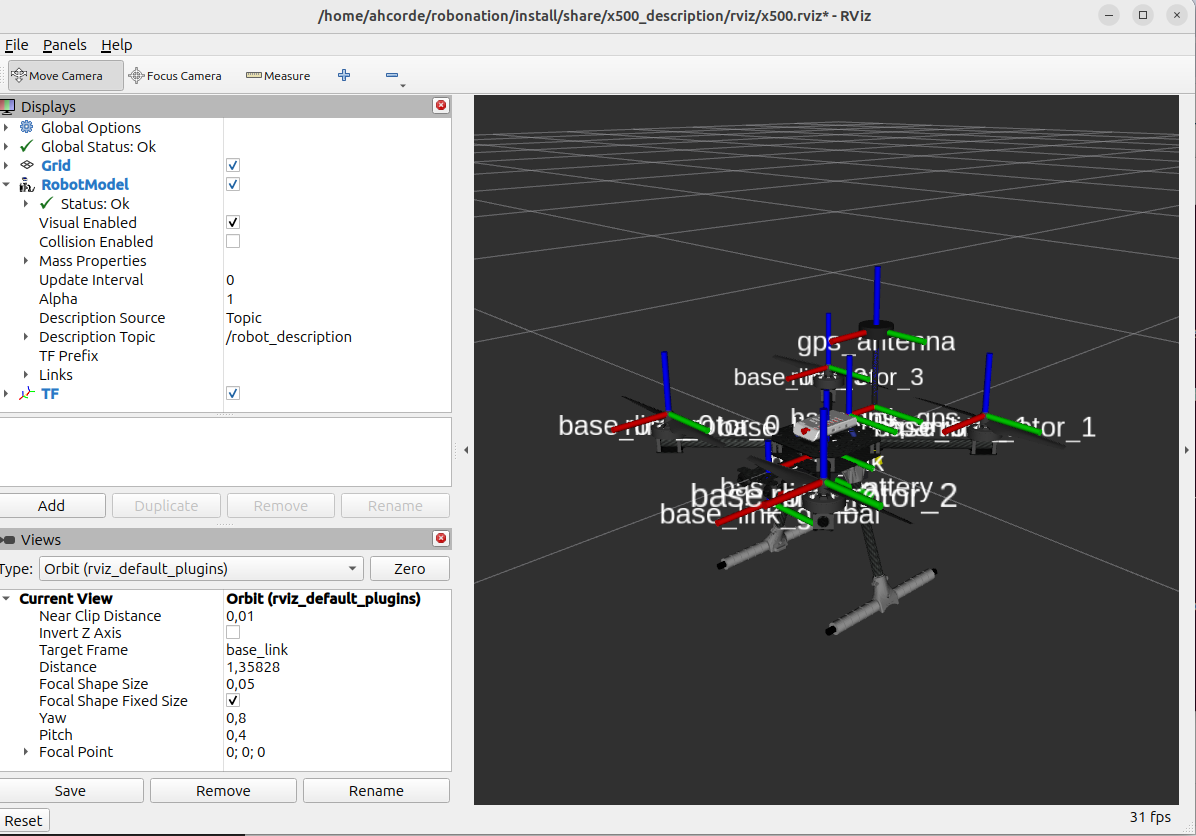
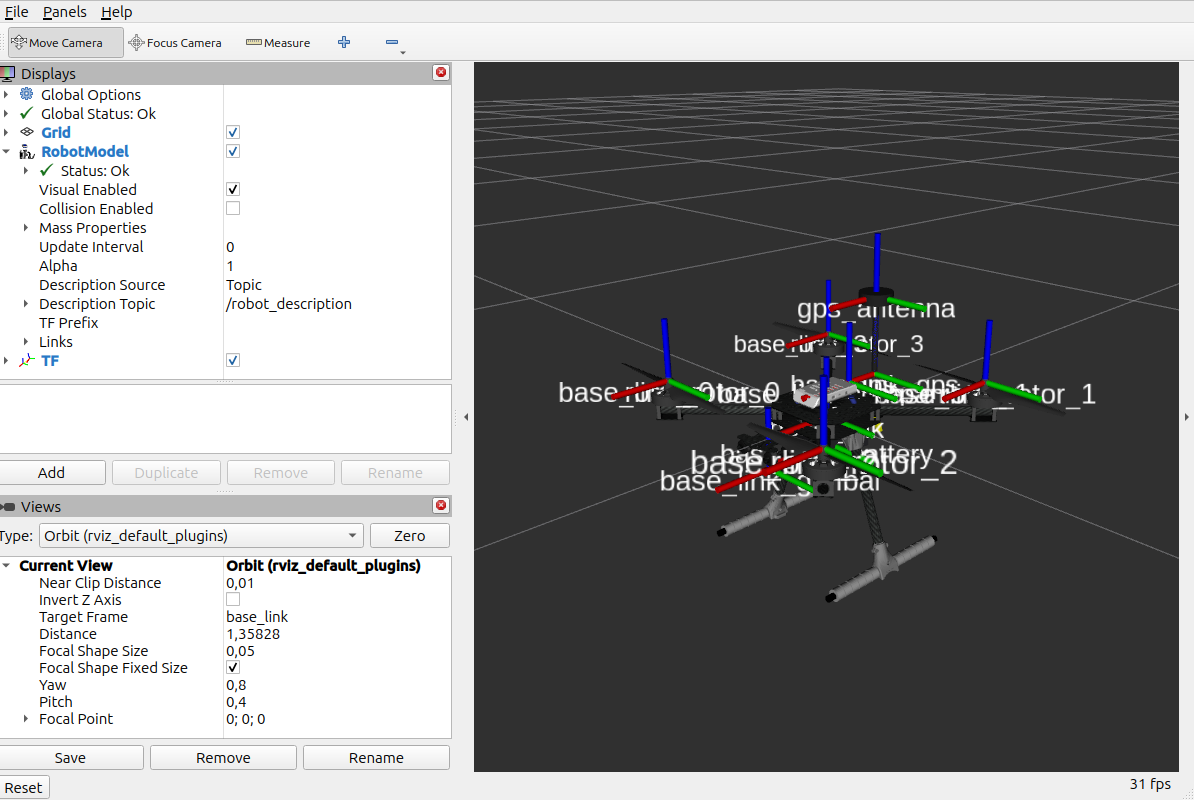
Review feedback

diff --git a/docs/how-to/index.md b/docs/how-to/index.md
@@ -6,14 +6,15 @@ The vehicle is described by one YAML config, so changing what is fitted
 never means rebuilding. Start from the default config:
 
 ```bash
-cp "$(ros2 pkg prefix --share x500_description)"/config/x500.yaml $HOME/ws/my_loadout.yaml
+mkdir -p $HOME/my_x500
+cp "$(ros2 pkg prefix --share x500_description)"/config/x500.yaml $HOME/my_x500/my_loadout.yaml
 ```
 
 Edit your copy, then hand it to either launch with `config_file:=`:
 
 ```bash
-ros2 launch x500_gazebo sim.launch.xml config_file:=$HOME/ws/my_loadout.yaml
-ros2 launch x500_description display.launch.xml config_file:=$HOME/ws/my_loadout.yaml
+ros2 launch x500_gazebo sim.launch.xml config_file:=$HOME/my_x500/my_loadout.yaml
+ros2 launch x500_description display.launch.xml config_file:=$HOME/my_x500/my_loadout.yaml
 ```
 
 Inside the config there are three ways to place a part:
@@ -40,7 +41,7 @@ Inside the config there are three ways to place a part:
 
 ```{tip}
 To fill a slot on a part other than the base, the instance key is `of:`,
-never `on:` - YAML reads a bare `on` as the boolean `true`.
+never `on:`. YAML reads a bare `on` as the boolean `true`.
 ```
 
 ## Generate the artifacts yourself
@@ -49,7 +50,7 @@ The launches generate everything they need, but you can write the same
 artifacts to a directory of your own:
 
 ```bash
-ros2 run x500_gazebo configure_vehicle.py --config $HOME/ws/my_loadout.yaml --out-dir ~/my_x500
+ros2 run x500_gazebo configure_vehicle.py --config $HOME/my_x500/my_loadout.yaml --out-dir $HOME/my_x500
 ```
 
 That writes `x500.urdf`, `model.sdf`, `model.config`,
@@ -60,7 +61,7 @@ root on `GZ_SIM_RESOURCE_PATH`.
 To confirm a config and an assembled URDF still agree:
 
 ```bash
-ros2 run holybro_parts check_assembly.py $HOME/ws/my_loadout.yaml ~/my_x500/x500.urdf
+ros2 run holybro_parts check_assembly.py $HOME/my_x500/my_loadout.yaml $HOME/my_x500/x500.urdf
 ```
 
 ## Add a part

diff --git a/docs/getting-started/first-simulation.md b/docs/getting-started/first-simulation.md
@@ -7,17 +7,18 @@ robot_state_publisher and the Gazebo GUI):
 ros2 launch x500_gazebo sim.launch.xml
 ```
 
-![](../img/x500.png)
+![The X500 quadrotor in Gazebo, resting on its landing gear](../img/x500.png)
 
-Gazebo opens with the X500 resting on its landing gear: 
+Gazebo opens with the X500 resting on its landing gear:
 
- - the airframe, 
- - its four 1345 propellers
- - the 4S battery
-- the GPS mast. 
+- the airframe
+- its four 1345 propellers
+- the 4S battery
+- the GPS mast
 
-That is the default configuration; no configuration was involved. The model carries no control
-layer, so the rotors idle until an autopilot publishes on the motor bus
+That is the default configuration; no configuration was involved. The
+model carries no control layer, so the rotors idle until an autopilot
+publishes on the motor bus
 ([Actuators](../vehicles/x500/actuators.md)).
 
 In a second terminal (also sourced), the flight sensors publish right away:

diff --git a/docs/vehicles/x500/index.md b/docs/vehicles/x500/index.md
@@ -21,7 +21,8 @@ Launch the X500 without a config and you get the airframe with:
 - **the 4S battery**.
 - **the GPS mast**.
 
-That is enough to fly. Two more parts sit in the catalog unfitted, the
-companion computer and the gimbal camera, and nothing above is fixed: fit
-an optional part, swap a default for another accepted type, or leave a
+That is enough to fly once an autopilot is attached or you provide
+control code. Two more parts sit in the catalog unfitted, the companion
+computer and the gimbal camera, and nothing above is fixed: fit an
+optional part, swap a default for another accepted type, or leave a
 default off entirely. See [Configuration](configuration.md).
